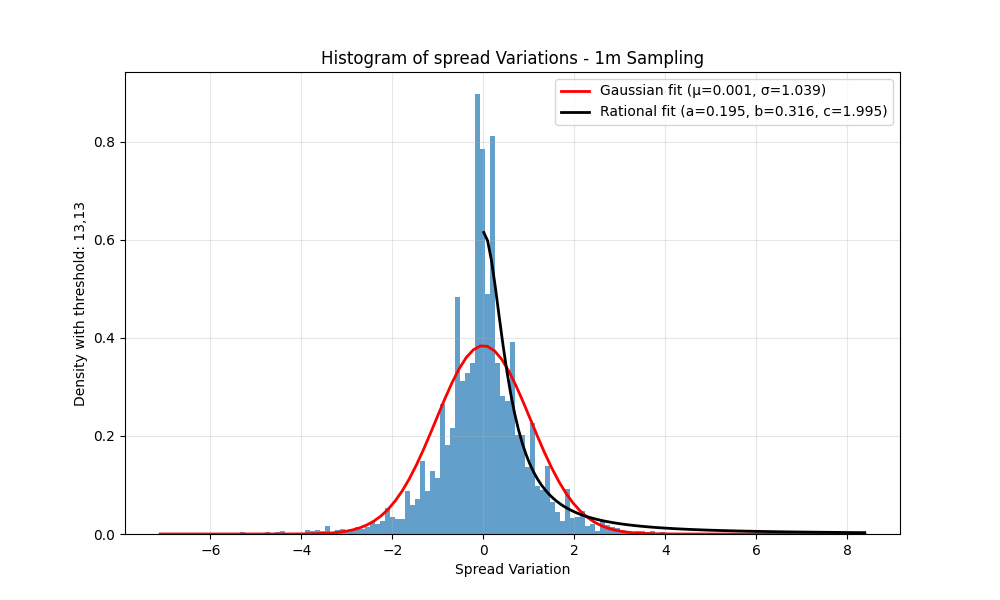
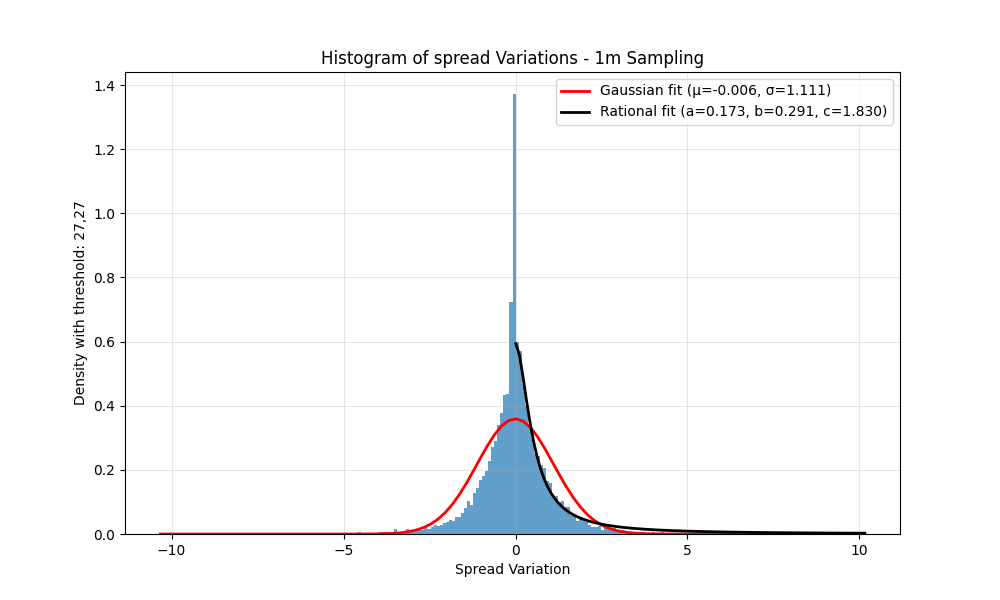
added some runs

diff --git a/data/curating/gaussiantestwithoutviz copy.py b/data/curating/gaussiantestwithoutviz copy.py
@@ -40,7 +40,7 @@ for stock in tqdm(list(LIST_STOCKS_SIZE.keys())):
     parquet_files = [f for f in os.listdir(f"{FOLDER_PATH}{stock}") if f.endswith('.parquet')]
     parquet_files.sort()
     print(len(parquet_files),"\n",parquet_files)
-    threshold = len(parquet_files)//4
+    threshold = len(parquet_files)//2
     parquet_files = parquet_files[:threshold]
     # Read and concatenate all parquet files
     df = pl.concat([
